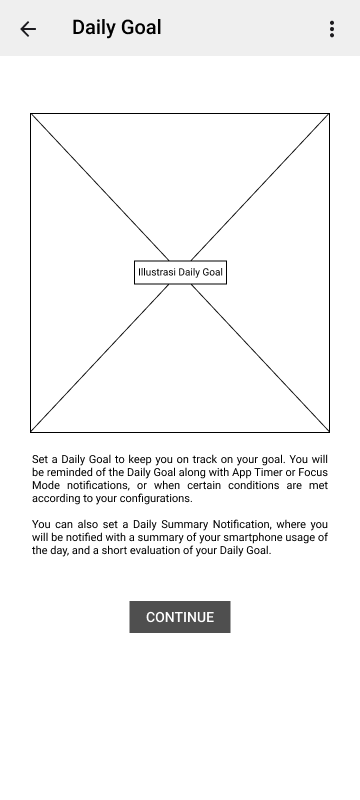
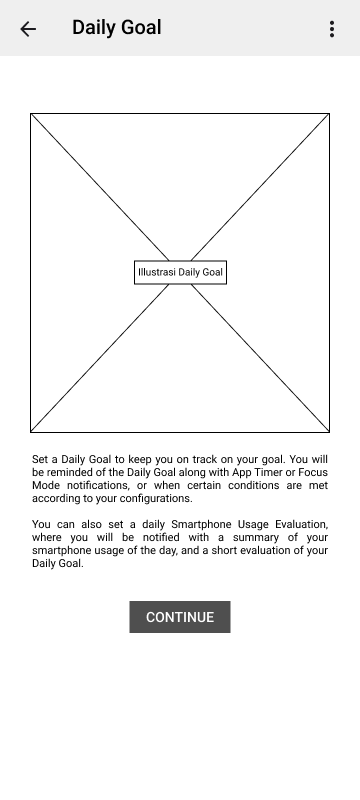
High fidelity prototype

Changed region(s): [[0.0917, 0.625, 0.9167, 0.7188]]

diff --git a/src/chapters/chapter-4.1.tex b/src/chapters/chapter-4.1.tex
@@ -89,49 +89,49 @@ Tampilan dari halaman serta widget yang telah disebutkan perlu memuat informasi 
 
 \RaggedLeft
 \begin{footnotesize}
-\begin{longtable}[c]{|>{\ccnormspacingcenter}p{0.1\textwidth}|>{\ccnormspacing}p{0.37\textwidth}|>{\ccnormspacingcenter}p{0.1\textwidth}|>{\ccnormspacingcenter}p{\lofiwidth}|}
+\begin{longtable}[c]{|>{\ccnormspacingcenter}p{0.12\textwidth}|>{\ccnormspacing}p{0.37\textwidth}|>{\ccnormspacingcenter}p{0.1\textwidth}|>{\ccnormspacingcenter}p{\lofiwidth}|}
   \caption{Daftar Tampilan Halaman Prototipe \textit{Low-Fidelity}}
   \label{tab:daftar_lofi_halaman} \\
   \hline \rowcolor[HTML]{A3E5F5}
-  \centering\textbf{ID Halaman} & \centering\textbf{Penjelasan Halaman} & \centering\textbf{Prinsip Desain} & \textbf{Prototipe \textit{Low-Fidelity}} \\ \hline \endfirsthead
+  \centering\textbf{Halaman} & \centering\textbf{Penjelasan Halaman} & \centering\textbf{Prinsip Desain} & \textbf{Prototipe \textit{Low-Fidelity}} \\ \hline \endfirsthead
   \hline \rowcolor[HTML]{A3E5F5}
-  \centering\textbf{ID Halaman} & \centering\textbf{Penjelasan Halaman} & \centering\textbf{Prinsip Desain} & \textbf{Prototipe \textit{Low-Fidelity}} \\ \hline \endhead
+  \centering\textbf{Halaman} & \centering\textbf{Penjelasan Halaman} & \centering\textbf{Prinsip Desain} & \textbf{Prototipe \textit{Low-Fidelity}} \\ \hline \endhead
   \hline \endfoot
 
-  H-01 & Halaman ini adalah tampilan utama dari aplikasi Digital Wellbeing yang memuat navigasi utama ke fitur-fitur seperti Dashboard, App Timer, Daily Goal, Focus Mode, dan Bedtime Mode. Navigasi menuju Dashboard diletakkan di paling atas beserta \textit{pie graph} yang menunjukkan aktivitas \textit{smartphone} pengguna di hari tersebut. Di bagian bawah juga terdapat navigasi menuju pengaturan notifikasi dan mode "Do Not Disturb" bawaan \textit{smartphone} & DP-01, DP-02, DP-04, DP-05, DP-08, DP-09 & \lofi{lofi/h-01} \\ \hline
+  \textbf{H-01} Halaman Main Menu & Halaman ini adalah tampilan utama dari aplikasi Digital Wellbeing yang memuat navigasi utama ke fitur-fitur seperti Dashboard, App Timer, Daily Goal, Focus Mode, dan Bedtime Mode. Navigasi menuju Dashboard diletakkan di paling atas beserta \textit{pie graph} yang menunjukkan aktivitas \textit{smartphone} pengguna di hari tersebut. Di bagian bawah juga terdapat navigasi menuju pengaturan notifikasi dan mode "Do Not Disturb" bawaan \textit{smartphone} & DP-01, DP-02, DP-04, DP-05, DP-08, DP-09 & \lofi{lofi/h-01} \\ \hline
 
-  H-02 & Halaman ini memuat seluruh data penggunaan \textit{smartphone}. Pada bagian paling atas, terdapat rekomendasi dari Digital Wellbeing tentang langkah-langkah yang dapat dilakukan pengguna untuk memperbaiki kebiasaan digitalnya, atau penanda jika kebiasaannya sudah cukup sehat. Bagian rekomendasi ini adalah salah satu aspek di mana tipe interaksi \textit{responding} difokuskan. Data penggunaan \textit{smartphone} yang ditampilkan dapat dipilih oleh menu, baik waktu penggunaan aplikasi, jumlah notifikasi, atau jumlah pembukaan aplikasi. Periode durasi data juga dapat dipilih dengan menu, baik secara per jam, harian, atau mingguan.
+  \textbf{H-02} Halaman Dashboard & Halaman ini memuat seluruh data penggunaan \textit{smartphone}. Pada bagian paling atas, terdapat rekomendasi dari Digital Wellbeing tentang langkah-langkah yang dapat dilakukan pengguna untuk memperbaiki kebiasaan digitalnya, atau penanda jika kebiasaannya sudah cukup sehat. Bagian rekomendasi ini adalah salah satu aspek di mana tipe interaksi \textit{responding} difokuskan. Data penggunaan \textit{smartphone} yang ditampilkan dapat dipilih oleh menu, baik waktu penggunaan aplikasi, jumlah notifikasi, atau jumlah pembukaan aplikasi. Periode durasi data juga dapat dipilih dengan menu, baik secara per jam, harian, atau mingguan.
   Selain itu terdapat daftar seluruh aplikasi pada \textit{smartphone} beserta data penggunaannya masing-masing. Pengguna dapat melihat data lebih detail atau langsung memasang App Timer. Pengguna juga dapat melihat data penggunaan dari kelompok aplikasi yang telah dibuat, atau membuatnya jika belum ada, terlihat tepat di atas daftar. Jika pengguna ingin mencari aplikasi spesifik, maka \textit{searchbar} bisa dimanfaatkan untuk mengetikkan nama aplikasi.
   & DP-01, DP-02, DP-03, DP-04, DP-05, DP-08, DP-09 & \lofi{lofi/h-02} \\ \hline
 
-  H-03 & Halaman ini berisi daftar App Timer yang telah dipasang oleh pengguna, waktu yang telah dilampaui selama menggunakan aplikasi tersebut, serta sisa waktu sebelum aplikasi ditutup aksesnya. Pengguna bisa mengubah pengaturan App Timer yang telah dipasang, atau menambah aplikasi yang ingin dipasangkan App Timer dengan mencarinya dari daftar aplikasi yang terletak di bawah. Di halaman ini pengguna juga bisa mengatur perilaku pemberian peringatan terhadap sisa waktu aplikasi-aplikasi. & DP-02, DP-03, DP-05, DP-08, DP-09 & \lofi{lofi/h-03} \\ \hline
+  \textbf{H-03} Halaman App Timer & Halaman ini berisi daftar App Timer yang telah dipasang oleh pengguna, waktu yang telah dilampaui selama menggunakan aplikasi tersebut, serta sisa waktu sebelum aplikasi ditutup aksesnya. Pengguna bisa mengubah pengaturan App Timer yang telah dipasang, atau menambah aplikasi atau App Group yang ingin dipasangkan App Timer dengan mencarinya dari daftar aplikasi yang terletak di bawah. Di halaman ini pengguna juga bisa mengatur perilaku pemberian peringatan terhadap sisa waktu aplikasi-aplikasi. & DP-02, DP-03, DP-05, DP-08, DP-09 & \lofi{lofi/h-03} \\ \hline
   
-  H-04 & Di halaman ini, pengguna dapat menentukan Daily Goal atau tujuan harian yang ingin ditempuh dan dibantu diingatkan oleh aplikasi Digital Wellbeing. Pengguna dapat mengatur perilaku pengiriman peringatannya. Pengguna juga dapat menyalakan fitur Smartphone Usage Evaluation di mana aplikasi akan mengirimkan sebuah notifikasi berisi jumlah waktu penggunaan \textit{smartphone} pada hari tersebut serta peringatan untuk mengevaluasi Daily Goal yang telah ditentukan. & DP-03, DP-05, DP-06, DP-08, DP-09 & \lofi{lofi/h-04} \\ \hline
+  \textbf{H-04} Halaman Daily Goal & Di halaman ini, pengguna dapat menentukan Daily Goal atau tujuan harian yang ingin ditempuh dan dibantu diingatkan oleh aplikasi Digital Wellbeing. Pengguna dapat mengatur perilaku pengiriman peringatannya. Pengguna juga dapat menyalakan fitur Smartphone Usage Evaluation di mana aplikasi akan mengirimkan sebuah notifikasi berisi jumlah waktu penggunaan \textit{smartphone} pada hari tersebut serta peringatan untuk mengevaluasi Daily Goal yang telah ditentukan. & DP-03, DP-05, DP-06, DP-08, DP-09 & \lofi{lofi/h-04} \\ \hline
   
-  H-05 & Halaman ini memuat status dari keberjalanan Focus Mode serta aksi-aksi yang dapat dilakukan untuk menunda, mematikan, atau mengaktivasinya. Selain itu, terdapat juga daftar jadwal Focus Mode yang ditentukan pengguna, atau pilihan untuk menambahkannya. Jadwal Focus Mode akan menavigasikan pengguna ke halaman pengaturan jadwal tersebut.  & DP-03, DP-05, DP-06, DP-08, DP-09 & \lofi{lofi/h-05} \\ \hline
+  \textbf{H-05} Halaman Focus Mode & Halaman ini memuat status dari keberjalanan Focus Mode serta aksi-aksi yang dapat dilakukan untuk menunda, mematikan, atau mengaktivasinya. Selain itu, terdapat juga daftar jadwal Focus Mode yang ditentukan pengguna, atau pilihan untuk menambahkannya. Jadwal Focus Mode akan menavigasikan pengguna ke halaman pengaturan jadwal tersebut.  & DP-03, DP-05, DP-06, DP-08, DP-09 & \lofi{lofi/h-05} \\ \hline
   
-  H-06 & Pada halaman ini, pengguna dapat mengatur jadwal aktivasi Bedtime Mode menurut mode perilaku aktivasi yang dipilihnya. Pengguna juga dapat mengatur kemampuan apa saja yang akan aktif jika Bedtime Mode berlangsung.  & DP-03, DP-04, DP-05, DP-08, DP-09 & \lofi{lofi/h-06-schedule} \\ \hline
+  \textbf{H-06} Halaman Bedtime Mode & Pada halaman ini, pengguna dapat mengatur jadwal aktivasi Bedtime Mode menurut mode perilaku aktivasi yang dipilihnya. Pengguna juga dapat mengatur kemampuan apa saja yang akan aktif jika Bedtime Mode berlangsung.  & DP-03, DP-04, DP-05, DP-08, DP-09 & \lofi{lofi/h-06-schedule} \\ \hline
   
-  H-07 & Halaman ini memuat data penggunaan sebuah aplikasi. Jenis data-data yang ditampilkan mirip seperti yang dapat ditemukan pada halaman Dashboard, namun hanya untuk satu buah aplikasi yang dipilih saja. Pemilihan periode waktu serta navigasi waktu data juga dapat dilakukan. Sebagai tambahan, terdapat navigasi ke halaman pengaturan App Timer untuk aplikasinya, serta navigasi menuju halaman pengaturan notifikasi aplikasi bawaan \textit{smartphone} & DP-05, DP-08, DP-09 & \lofi{lofi/h-07} \\ \hline
+  \textbf{H-07} Halaman Ringkasan Penggunaan Aplikasi & Halaman ini memuat data penggunaan sebuah aplikasi. Jenis data-data yang ditampilkan mirip seperti yang dapat ditemukan pada halaman Dashboard, namun hanya untuk satu buah aplikasi yang dipilih saja. Pemilihan periode waktu serta navigasi waktu data juga dapat dilakukan. Sebagai tambahan, terdapat navigasi ke halaman pengaturan App Timer untuk aplikasinya, serta navigasi menuju halaman pengaturan notifikasi aplikasi bawaan \textit{smartphone}. Tampilan data penggunaan aplikasi sengaja dibuat serupa dengan tampilan pengguna \textit{smartphone} agar pengguna dapat dengan mudah menggunakannya tanpa perlu mempelajari ulang. & DP-05, DP-08, DP-09 & \lofi{lofi/h-07} \\ \hline
   
-  H-08 & Halaman ini memuat data penggunaan dari App Group atau kelompok aplikasi yang ditentukan oleh pengguna. Jenis data-data yang ditampilkan mirip seperti yang dapat ditemukan pada halaman Dashboard, namun hanya untuk gabungan dari beberapa aplikasi yang ditentukan. Pemilihan periode waktu serta navigasi waktu data juga dapat dilakukan. Di bagian bawah, terdapat daftar aplikasi yang termasuk ke dalam App Group, yang dapat dinavigasi ke halaman data penggunaan aplikasinya masing-masing, atau halaman pengaturan App Timer aplikasinya. Sebagai tambahan, terdapat juga navigasi ke halaman App Timer untuk App Group tersebut, di mana dapat diatur App Timer untuk keseluruhan aplikasi secara kolektif. Terdapat juga navigasi ke halaman pengaturan App Group jika pengguna ingin melakukan perubahan terhadap App Groupnya. & DP-05, DP-08, DP-09 & \lofi{lofi/h-08} \\ \hline
+  \textbf{H-08} Halaman Ringkasan Penggunaan App Group & Halaman ini memuat data penggunaan dari App Group atau kelompok aplikasi yang ditentukan oleh pengguna. Jenis data-data yang ditampilkan mirip seperti yang dapat ditemukan pada halaman Dashboard, namun hanya untuk gabungan dari beberapa aplikasi yang ditentukan. Pemilihan periode waktu serta navigasi waktu data juga dapat dilakukan. Di bagian bawah, terdapat daftar aplikasi yang termasuk ke dalam App Group, yang dapat dinavigasi ke halaman data penggunaan aplikasinya masing-masing, atau halaman pengaturan App Timer aplikasinya. Sebagai tambahan, terdapat juga navigasi ke halaman App Timer untuk App Group tersebut, di mana dapat diatur App Timer untuk keseluruhan aplikasi secara kolektif. Terdapat juga navigasi ke halaman pengaturan App Group jika pengguna ingin melakukan perubahan terhadap App Groupnya. & DP-05, DP-08, DP-09 & \lofi{lofi/h-08} \\ \hline
   
-  H-09 & Pada halaman ini dapat dilakukan pengaturan terhadap App Group yang dibuat oleh pengguna. Pengaturan App Group termasuk nama App Group serta aplikasi-aplikasi yang dipilih. Pengguna dapat memanfaatkan \textit{searchbar} jika ingin mencari aplikasi yang spesifik.  & DP-05, DP-08, DP-09 & \lofi{lofi/h-09} \\ \hline
+  \textbf{H-09} Halaman Pengaturan App Group & Pada halaman ini dapat dilakukan pengaturan terhadap App Group yang dibuat oleh pengguna. Pengaturan App Group termasuk nama App Group serta aplikasi-aplikasi yang dipilih. Pengguna dapat memanfaatkan \textit{searchbar} jika ingin mencari aplikasi yang spesifik.  & DP-05, DP-08, DP-09 & \lofi{lofi/h-09} \\ \hline
   
-  H-10 & Pada halaman ini dapat dilakukan pengaturan terhadap App Timer aplikasi yang dibuat oleh pengguna. Pengguna dapat mengatur App Timer agar memiliki batas waktu yang sama setiap hari, atau batas waktu yang berbeda-beda per harinya sesuai kebutuhan pengguna. Pengguna juga dapat menghapus App Timer lewat halaman ini. Di bagian atas juga terdapat visualisasi waktu penggunaan aplikasi dan sisa batas waktunya untuk hari tersebut.  & DP-01, DP-02, DP-03, DP-05, DP-08, DP-09 & \lofi{lofi/h-10-custom} \\ \hline
+  \textbf{H-10} Halaman Pengaturan Jadwal App Timer & Pada halaman ini dapat dilakukan pengaturan terhadap App Timer aplikasi yang dibuat oleh pengguna. Pengguna dapat mengatur App Timer agar memiliki batas waktu yang sama setiap hari, atau batas waktu yang berbeda-beda per harinya sesuai kebutuhan pengguna. Pengguna juga dapat menghapus App Timer lewat halaman ini. Di bagian atas juga terdapat visualisasi waktu penggunaan aplikasi dan sisa batas waktunya untuk hari tersebut.  & DP-01, DP-02, DP-03, DP-05, DP-08, DP-09 & \lofi{lofi/h-10-custom} \\ \hline
   
-  H-11 & Pada halaman ini, pengguna dapat mengatur hari dan waktu aktivasi dari jadwal Focus Mode yang dibuat pengguna. Pengguna juga dapat mengatur nama dari jadwal, dan aplikasi apa saja yang akan diblokir aksesnya selama jadwal Focus Mode berlangsung. Jika pengguna ingin mencari aplikasi spesifik, maka \textit{searchbar} dapat dimanfaatkan dengan mengetikkan nama aplikasinya.  & DP-03, DP-05, DP-08, DP-09 & \lofi{lofi/h-11} \\ \hline
+  \textbf{H-11} Halaman Pengaturan Jadwal Focus Mode & Pada halaman ini, pengguna dapat mengatur hari dan waktu aktivasi dari jadwal Focus Mode yang dibuat pengguna. Pengguna juga dapat mengatur nama dari jadwal, dan aplikasi apa saja yang akan diblokir aksesnya selama jadwal Focus Mode berlangsung. Jika pengguna ingin mencari aplikasi spesifik, maka \textit{searchbar} dapat dimanfaatkan dengan mengetikkan nama aplikasinya.  & DP-03, DP-05, DP-08, DP-09 & \lofi{lofi/h-11} \\ \hline
   
   
-  H-12 & Halaman ini memuat ilustrasi tujuan dari Dashboard dan penjelasan tentang fitur-fitur yang terdapat pada Dashboard. Halaman ini bertujuan agar pengguna memiliki gambaran umum tentang apa yang dapat dicapai dari menggunakan Dashboard & DP-05, DP-09 & \lofi{lofi/h-12} \\ \hline
+  \textbf{H-12} Halaman Pengenalan Dashboard & Halaman ini memuat ilustrasi tujuan dari Dashboard dan penjelasan tentang fitur-fitur yang terdapat pada Dashboard. Halaman ini bertujuan agar pengguna memiliki gambaran umum tentang apa yang dapat dicapai dari menggunakan Dashboard & DP-05, DP-09 & \lofi{lofi/h-12} \\ \hline
   
-  H-13 & Halaman ini memuat ilustrasi tujuan dari App Timer dan penjelasan tentang fitur-fitur yang terdapat pada App Timer. Halaman ini bertujuan agar pengguna memiliki gambaran umum tentang apa yang dapat dicapai dari menggunakan App Timer & DP-05, DP-09 & \lofi{lofi/h-13} \\ \hline
+  \textbf{H-13} Halaman Pengenalan App Timer & Halaman ini memuat ilustrasi tujuan dari App Timer dan penjelasan tentang fitur-fitur yang terdapat pada App Timer. Halaman ini bertujuan agar pengguna memiliki gambaran umum tentang apa yang dapat dicapai dari menggunakan App Timer & DP-05, DP-09 & \lofi{lofi/h-13} \\ \hline
   
-  H-14 & Halaman ini memuat ilustrasi tujuan dari Daily Goal dan penjelasan tentang fitur-fitur yang terdapat pada Daily Goal. Halaman ini bertujuan agar pengguna memiliki gambaran umum tentang apa yang dapat dicapai dari menggunakan Daily Goal & DP-05, DP-09 & \lofi{lofi/h-14} \\ \hline
+  \textbf{H-14} Halaman Pengenalan Goal Reminder & Halaman ini memuat ilustrasi tujuan dari Daily Goal dan penjelasan tentang fitur-fitur yang terdapat pada Daily Goal. Halaman ini bertujuan agar pengguna memiliki gambaran umum tentang apa yang dapat dicapai dari menggunakan Daily Goal & DP-05, DP-09 & \lofi{lofi/h-14} \\ \hline
   
-  H-15 & Halaman ini memuat ilustrasi tujuan dari Focus Mode dan penjelasan tentang fitur-fitur yang terdapat pada Focus Mode. Halaman ini bertujuan agar pengguna memiliki gambaran umum tentang apa yang dapat dicapai dari menggunakan Focus Mode & DP-05, DP-09 & \lofi{lofi/h-15} \\ \hline
+  \textbf{H-15} Halaman Pengenalan Focus Mode & Halaman ini memuat ilustrasi tujuan dari Focus Mode dan penjelasan tentang fitur-fitur yang terdapat pada Focus Mode. Halaman ini bertujuan agar pengguna memiliki gambaran umum tentang apa yang dapat dicapai dari menggunakan Focus Mode & DP-05, DP-09 & \lofi{lofi/h-15} \\ \hline
   
-  H-16 & Halaman ini memuat ilustrasi tujuan dari Bedtime Mode dan penjelasan tentang fitur-fitur yang terdapat pada Bedtime Mode. Halaman ini bertujuan agar pengguna memiliki gambaran umum tentang apa yang dapat dicapai dari menggunakan Bedtime Mode & DP-05, DP-09 & \lofi{lofi/h-16} \\ \hline
+  \textbf{H-16} Halaman Pengenalan Bedtime Mode & Halaman ini memuat ilustrasi tujuan dari Bedtime Mode dan penjelasan tentang fitur-fitur yang terdapat pada Bedtime Mode. Halaman ini bertujuan agar pengguna memiliki gambaran umum tentang apa yang dapat dicapai dari menggunakan Bedtime Mode & DP-05, DP-09 & \lofi{lofi/h-16} \\ \hline
 
 
 \end{longtable}
@@ -145,16 +145,16 @@ Tampilan dari halaman serta widget yang telah disebutkan perlu memuat informasi 
   \caption{Daftar Tampilan Widget Prototipe \textit{Low-Fidelity}}
   \label{tab:daftar_lofi_widget} \\
   \hline \rowcolor[HTML]{A3E5F5}
-  \centering\textbf{ID Widget} & \centering\textbf{Penjelasan Widget} & \centering\textbf{Prinsip Desain} & \textbf{Prototipe \textit{Low-Fidelity}} \\ \hline \endfirsthead
+  \centering\textbf{Widget} & \centering\textbf{Penjelasan Widget} & \centering\textbf{Prinsip Desain} & \textbf{Prototipe \textit{Low-Fidelity}} \\ \hline \endfirsthead
   \hline \rowcolor[HTML]{A3E5F5}
-  \centering\textbf{ID Widget} & \centering\textbf{Penjelasan Widget} & \centering\textbf{Prinsip Desain} & \textbf{Prototipe \textit{Low-Fidelity}} \\ \hline \endhead
+  \centering\textbf{Widget} & \centering\textbf{Penjelasan Widget} & \centering\textbf{Prinsip Desain} & \textbf{Prototipe \textit{Low-Fidelity}} \\ \hline \endhead
   \hline \endfoot
 
-  W-01 & Widget ini memuat data penggunaan \textit{smartphone}, serta 3 aplikasi dengan penggunaan tertinggi pada hari tersebut. Pengguna dapat melakukan navigasi langsung ke halaman Dashboard melalui widget ini. & DP-02, DP-05, DP-09 & \lofiwidget{0.2\textwidth}{lofi/w-01} \\ \hline
+  \textbf{W-01} Widget Dashboard & Widget ini memuat data penggunaan \textit{smartphone}, serta 3 aplikasi dengan penggunaan tertinggi pada hari tersebut. Pengguna dapat melakukan navigasi langsung ke halaman Dashboard melalui widget ini. & DP-02, DP-05, DP-09 & \lofiwidget{0.2\textwidth}{lofi/w-01} \\ \hline
 
-  W-02 & Widget ini memuat daftar aplikasi yang telah dipasang App Timer, serta sisa waktu untuk menggunakan aplikasi sebelum aksesnya ditutup. Pengguna dapat melakukan navigasi langsung ke halaman App Timer, atau menambah App Timer untuk aplikasi lain melalui widget ini. & DP-02, DP-05, DP-09 & \lofiwidget{0.25\textwidth}{lofi/w-02} \\ \hline
+  \textbf{W-02} Widget App Timer & Widget ini memuat daftar aplikasi yang telah dipasang App Timer, serta sisa waktu untuk menggunakan aplikasi sebelum aksesnya ditutup. Pengguna dapat melakukan navigasi langsung ke halaman App Timer, atau menambah App Timer untuk aplikasi lain melalui widget ini. & DP-02, DP-05, DP-09 & \lofiwidget{0.3\textwidth}{lofi/w-02} \\ \hline
  
-  W-03 & Widget ini menampilkan status keberlangsungan dari Focus Mode. Pengguna dapat mengaktivasi Focus Mode langsung dari widget jika sedang tidak aktif, serta mengambil istirahat dan mematikan Focus Mode jika sedang aktif. Pengguna juga dapat melakukan navigasi langsung ke halaman Focus Mode langsung dari widget. & DP-03, DP-04, DP-05, DP-09 & \lofiwidget{0.25\textwidth}{lofi/w-03} \\ \hline
+  \textbf{W-03} Widget Focus Mode & Widget ini menampilkan status keberlangsungan dari Focus Mode. Pengguna dapat mengaktivasi Focus Mode langsung dari widget jika sedang tidak aktif, serta mengambil istirahat dan mematikan Focus Mode jika sedang aktif. Pengguna juga dapat melakukan navigasi langsung ke halaman Focus Mode langsung dari widget. & DP-03, DP-04, DP-05, DP-09 & \lofiwidget{0.3\textwidth}{lofi/w-03} \\ \hline
 
 \end{longtable}
 \end{footnotesize}

diff --git a/src/chapters/chapter-4.3.tex b/src/chapters/chapter-4.3.tex
@@ -12,7 +12,16 @@ Secara umum, aspek-aspek antarmuka yang digunakan pada prototipe \textit{high-fi
 
 \subsubsection{Warna}
 \label{subsubsec:aspek_warna}
-Warna yang digunakan dalam prototipe terbagi menjadi 3 kategori, yaitu warna primer, warna sekunder, dan warna tersier
+Warna yang digunakan dalam prototipe terbagi menjadi 3 kategori, yaitu warna primer, warna sekunder, dan warna aksen. Warna primer aplikasi menggunakan warna hijau, dengan alasan karena warna ini merupakan warna primer pada aplikasi Digital Wellbeing pada awalnya. Warna sekunder aplikasi adalah variasi atau gradasi warna monokrom hitam-putih. Selain itu, ada juga warna aksen yaitu warna kuning dan warna biru, yang juga sudah terdapat pada aplikasi Digital Wellbeing pada awalnya. Palet warna yang digunakan di aplikasi dapat dilihat pada Gambar \ref{img:pallete}.
+
+
+\begin{figure}[h]
+  \centering
+  \includegraphics[width=0.7\textwidth]{chapter-4-color.png}
+  \caption{Palet Warna Prototipe Aplikasi}
+  \label{img:pallete}
+\end{figure}
+\FloatBarrier
 
 \subsubsection{Tipografi}
 \label{subsubsec:aspek_tipografi}
@@ -24,15 +33,92 @@ Warna yang digunakan dalam prototipe terbagi menjadi 3 kategori, yaitu warna pri
   \caption{\textit{Typeface} Roboto}
   \label{img:typeface}
 \end{figure}
+\FloatBarrier
 
-\subsubsection{\textit{Icon}}
-\label{subsubsec:aspek_icon}
-Icon
+\subsubsection{Ikon}
+\label{subsubsec:aspek_ikon}
+Ikon adalah simbol grafis yang dapat merepresentasikan sebuah fungsi atau objek pada antarmuka aplikasi. Penggunaan ikon yang sering ditemukan di tampilan aplikasi lain juga dapat memberikan rasa familiaritas, mempermudah fungsi-fungsi untuk dipelajari. Ikon-ikon yang digunakan pada prototipe \textit{high-fidelity} akan diambil dari ikon-ikon Material Design. Warna ikon akan mengikuti konteks dari antarmuka di sekelilingnya atau kondisi penggunaan tertentu, yaitu bisa menggunakan warna primer, sekunder, atau aksen. Ikon-ikon yang digunakan pada prototipe dapat ditemukan pada Gambar \ref{img:icons}
+
+\begin{figure}[h]
+  \centering
+  \includegraphics[width=0.5\textwidth]{chapter-4-icons.png}
+  \caption{Ikon yang digunakan}
+  \label{img:icons}
+\end{figure}
+\FloatBarrier
  
 \subsubsection{Komponen Desain}
 \label{subsubsec:komponen_hifi_1}
 
-Komponen desain
+Berikut ini disebutkan beberapa komponen desain yang sering digunakan pada prototipe \textit{high-fidelity} Digital Wellbeing
+
+\begin{enumerate}
+  \item \textit{Button}
+  \subitem Terdapat 3 jenis utama tombol pada prototipe, \textit{filled button}, \textit{border button}, dan \textit{text button}. Adapun variasi terhadap ukuran dan bentuk dari tombol yang diturunkan ketiga jenis utama. Tombol-tombol ini berperan penting dalam melakukan aksi dan menetapkan pengaturan. Beberapa tampilan memiliki deretan tombol-tombol jika terdapat lebih dari 1 aksi yang dapat dilakukan, maka dari itu desain yang berbeda dari tombol cukup penting untuk menegaskan hierarki kepentingan dari setiap aksi.
+    \begin{figure}[h]
+      \centering
+      \includegraphics[width=0.45\textwidth]{chapter-4-buttons.png}
+      \caption{Komponen \textit{button}}
+      \label{img:button}
+    \end{figure}
+    \FloatBarrier
+  
+  \item Dialog
+  \subitem Dialog adalah sebuah jendela kecil melayang yang digunakan untuk menampilkan secuplik informasi, meminta aksi dari pengguna, atau memuat pengaturan suatu fitur. Dialog sering dimanfaatkan pada prototipe untuk memuat pengaturan yang lebih kompleks atau informasi lebih di saat layar sudah cukup terpenuhi, berguna agar membebankan pengguna dengan tampilan yang terlalu rumit.
+
+  \begin{figure}[h]
+    \centering
+    \includegraphics[width=0.4\textwidth]{chapter-4-dialog.png}
+    \caption{Komponen dialog}
+    \label{img:dialog}
+  \end{figure}
+  \FloatBarrier
+
+  \item \textit{Time Picker}
+  \subitem \textit{Time Picker} adalah sebuah variasi dari dialog yang berguna untuk memilih waktu. \textit{Time Picker} sering dimanfaatkan dalam prototipe, seperti untuk mengatur jadwal aktivasi Focus Mode atau App Timer.
+  
+  \begin{figure}[h]
+    \centering
+    \includegraphics[width=0.35\textwidth]{chapter-4-timepicker.png}
+    \caption{Komponen \textit{time picker}}
+    \label{img:timepicker}
+  \end{figure}
+  \FloatBarrier
+
+  \item \textit{Search bar}
+  \subitem \textit{Search bar} adalah sebuah komponen untuk mencari sebuah benda dari dalam daftar. \textit{Search bar} sering dimanfaatkan pada prototipe karena banyaknya tampilan yang memuat daftar aplikasi, sehingga dibutuhkan untuk mempermudah pencarian aplikasi oleh pengguna.
+ 
+  \begin{figure}[h]
+    \centering
+    \includegraphics[width=0.6\textwidth]{chapter-4-seachbar.png}
+    \caption{Komponen \textit{search bar}}
+    \label{img:searchbar}
+  \end{figure}
+  \FloatBarrier
+
+  \item \textit{Bar chart}
+  \subitem \textit{Bar chart} atau diagram batang adalah sebuah grafik yang terusun dari kolom-kolom berbentuk batang. \textit{Bar chart} digunakan dalam prototipe untuk menyampaikan informasi tentang data penggunaan \textit{smartphone} atau aplikasi.
+ 
+  \begin{figure}[h]
+    \centering
+    \includegraphics[width=0.5\textwidth]{chapter-4-barchart.png}
+    \caption{Komponen \textit{bar chart}}
+    \label{img:searchbar}
+  \end{figure}
+  \FloatBarrier
+
+  \item \textit{Dropdown}
+  \subitem \textit{Dropdown} adalah sebuah komponen desain yang berguna untuk mengelompokkan dan menyembunyikan objek-objek dengan atribut yang serupa. Komponen \textit{dropdown} dimanfaatkan pada prototipe untuk mengumpulkan pengaturan yang mirip pada suatu halaman, dan berguna untuk mengurangi beban visual dari tammpilan layar. Komponen \textit{dropdown} juga sudah digunakan pada aplikasi Digital Wellbeing pada awalnya.
+ 
+  \begin{figure}[h]
+    \centering
+    \includegraphics[width=0.6\textwidth]{chapter-4-dropdown.png}
+    \caption{Komponen \textit{dropdown}}
+    \label{img:dropdown}
+  \end{figure}
+  \FloatBarrier
+
+\end{enumerate}
 
 
 \subsection{Batasan Pengembangan}
@@ -52,5 +138,82 @@ Pengembangan prototipe \textit{high-fidelity} ini memiliki beberapa batasan agar
 
 \subsection{Implementasi Prototipe \textit{High-Fidelity}}
 
-Implementasi Prototipe \textit{High-Fidelity}
+Berdasarkan rencana perbaikan pada Tabel \ref{tab:daftar_perbaikan_lofi}, analisis aspek antarmuka, dan batasan pengembangan, maka tampilan-tampilan prototipe \textit{low-fidelity} pada Tabel \ref{tab:daftar_lofi_halaman} dan Tabel \ref{tab:daftar_lofi_widget} akan dikembangkan dan diimplementasi menjadi prototipe \textit{high-fidelity}. Tabel \ref{tab:daftar_hifi_halaman} memuat implementasi tampilan halaman prototipe \textit{high-fidelity}, sedangkan Tabel \ref{tab:daftar_hifi_widget} memuat implementasi tampilan untuk widget. Pada kedua tabel tersebut dimuat juga pemetaan prinsip desain tambahan terhadap prototipe \textit{high-fidelity}, serta penjelasan singkat tentang tampilan dan perubahannya dari tampilan prototipe \textit{low-fidelity}.
+
+
+\newlength{\hifiwidth}
+\setlength{\hifiwidth}{0.325\textwidth}
+
+\newcommand{\hifi}[1]{\begin{center}\includegraphics[width=\hifiwidth]{#1}\end{center}}
+\newcommand{\hifiwidget}[2]{\begin{center}\includegraphics[width=#1]{#2}\end{center}}
+
+\RaggedLeft
+\begin{footnotesize}
+\begin{longtable}[c]{|>{\ccnormspacingcenter}p{0.12\textwidth}|>{\ccnormspacing}p{0.33\textwidth}|>{\ccnormspacingcenter}p{0.12\textwidth}|>{\ccnormspacingcenter}p{\hifiwidth}|}
+  \caption{Daftar Tampilan Halaman Prototipe \textit{High-Fidelity}}
+  \label{tab:daftar_hifi_halaman} \\
+  \hline \rowcolor[HTML]{A3E5F5}
+  \centering\textbf{Halaman} & \centering\textbf{Penjelasan Halaman} & \centering\textbf{Prinsip Desain Tambahan} & \textbf{Prototipe \textit{High-Fidelity}} \\ \hline \endfirsthead
+  \hline \rowcolor[HTML]{A3E5F5}
+  \centering\textbf{Halaman} & \centering\textbf{Penjelasan Halaman} & \centering\textbf{Prinsip Desain Tambahan} & \textbf{Prototipe \textit{High-Fidelity}} \\ \hline \endhead
+  \hline \endfoot
+
+  \textbf{H-01} Halaman Main Menu & Halaman ini adalah tampilan utama dari aplikasi Digital Wellbeing yang memuat navigasi utama ke fitur-fitur lainnya. Pada prototipe \textit{high-fidelity} terdapat perubahan pada bentuk menu navigasi menjadi lebih bundar agar lebih \textit{user-friendly}. Adapun implementasi ilustrasi untuk menu Focus Mode dan Bedtime Mode, dan ikon-ikon pada menu lainnya, menggantikan \textit{placeholder} pada tampilan \textit{low-fidelity}. & - & \hifi{hifi/h-01} \\ \hline
+  
+  \textbf{H-02} Halaman Dashboard & Halaman ini memuat seluruh data penggunaan \textit{smartphone}. Pada prototipe \textit{high-fidelity} terdapat penambahan warna untuk \textit{bar chart} agar memperjelas data yang sedang dipilih. Adapun pengubahan desain dari tombol penambahan App Group untuk memberikan perbedaan yang jelas dengan tombol navigasi ke halaman data penggunaan App Group & - & \hifi{hifi/h-02} \\ \hline
+  
+  \textbf{H-03} Halaman App Timer & Halaman ini berisi daftar App Timer yang telah dipasang oleh pengguna, dan daftar aplikasi lain. Pada prototipe \textit{high-fidelity}, menu konfigurasi pengingat App Timer disembunyikan di dalam komponen \textit{dropdown} untuk mengurangi kompleksitas visual. Selain itu, ada juga penambahan bagian yang memuat daftar App Group yang sudah dibuat, memindahkan lokasi App Group dari dalam daftar aplikasi. & - & \hifi{hifi/h-03} \\ \hline
+  
+  \textbf{H-04} Halaman Daily Goal & Di halaman ini, pengguna dapat menentukan Daily Goal atau tujuan harian yang ingin ditempuh dan dibantu diingatkan oleh aplikasi Digital Wellbeing. Pada prototipe \textit{high-fidelity} terdapat penambahan penjelasan untuk fitur-fitur pengingat Daily Goal agar lebih mudah untuk dimengerti. Adapun penambahan ikon untuk fitur Daily Goal agar tampilan tidak terasa kaku & - & \hifi{hifi/h-04} \\ \hline
+  
+  \textbf{H-05} Halaman Focus Mode & Halaman ini memuat status dari keberjalanan Focus Mode serta aksi-aksi yang dapat dilakukan untuk menunda, mematikan, atau mengaktivasinya. Pada prototipe \textit{high-fidelity} terdapat penambahan daftar aplikasi untuk memilih aplikasi yang dinilai mendistraksi, daftar ini dapat dimanfaatkan jika pengguna ingin menyalakan fitur Focus Mode tanpa mengikuti jadwal. Adapun pemindahan lokasi navigasi ke halaman penambahan jadwal Focus Mode agar lebih mudah diakses jika terdapat banyak jadwal Focus Mode. & - & \hifi{hifi/h-05} \\ \hline
+  
+  \textbf{H-06} Halaman Bedtime Mode &  Pada halaman ini, pengguna dapat mengatur jadwal aktivasi Bedtime Mode menurut mode perilaku aktivasi yang dipilihnya. Pada prototipe \textit{high-fidelity} terdapat penambahan penjelasan singkat tentang mode aktivasi While Charging, sesuai dengan rencana perbaikan terhadap masalah yang dilaporkan. Adapun penambahan warna aksen terhadap pengaturan jadwal, warna aksen ini sudah menjadi bagian dari aplikasi Digital Wellbeing pada awalnya. Selain itu, menu konfigurasi kemampuan yang aktif saat Bedtime Mode disembunyikan di dalam komponen \textit{dropdown} untuk mengurangi kompleksitas visual. & - & \hifi{hifi/h-06-schedule} \\ \hline
+  
+  \textbf{H-07} Halaman Ringkasan Penggunaan Aplikasi & Halaman ini memuat data penggunaan sebuah aplikasi. Pada prototipe \textit{high-fidelity}, terdapat penambahan ikon pada navigasi App Timer dan pengaturan notifikasi agar tampilan lebih mudah dikenali. & - & \hifi{hifi/h-07} \\ \hline
+  
+  \textbf{H-08} Halaman Ringkasan Penggunaan App Group & Halaman ini memuat data penggunaan dari App Group atau kelompok aplikasi yang ditentukan oleh pengguna. Pada prototipe \textit{high-fidelity}, terdapat penambahan ikon pada navigasi App Timer dan pengaturan App Group agar tampilan lebih mudah dikenali. & - & \hifi{hifi/h-08} \\ \hline
+  
+  \textbf{H-09} Halaman Pengaturan App Group & Pada halaman ini dapat dilakukan pengaturan terhadap App Group yang dibuat oleh pengguna. Pada prototipe \textit{high-fidelity}, tidak ada perubahan yang cukup signifikan selain pengaplikasian warna. & - & \hifi{hifi/h-09} \\ \hline
+  
+  \textbf{H-10} Halaman Pengaturan Jadwal App Timer & Pada halaman ini dapat dilakukan pengaturan terhadap App Timer aplikasi yang dibuat oleh pengguna. Pada prototipe \textit{high-fidelity} terdapat perubahan tampilan untuk pengaturan App Timer, dengan memberikan elemen untuk mengkonfirmasi pengaturan sesuai dengan rancangan perbaikan dari prototipe \textit{low-fidelity}. Adapun jika belum ada opsi mode aktivasi App Timer, maka tombol konfirmasi pengaturan akan dinonaktifkan. & DP-07 & \hifi{hifi/h-10-daily} \hifi{hifi/h-10-off} \\ \hline
+  
+  \textbf{H-11} Halaman Pengaturan Jadwal Focus Mode & Pada halaman ini, pengguna dapat mengatur hari dan waktu aktivasi dari jadwal Focus Mode yang dibuat pengguna. Pada prototipe \textit{high-fidelity} terdapat penambahan bagian yang memuat daftar App Group yang sudah dibuat, memindahkan lokasi App Group dari dalam daftar aplikasi, agar pengguna lebih mudah dalam memilih sekelompok aplikasi sekaligus. & - & \hifi{hifi/h-11} \\ \hline
+  
+  \textbf{H-12} Halaman Pengenalan Dashboard & Halaman ini memuat ilustrasi tujuan dari Dashboard dan penjelasan tentang fitur-fitur yang terdapat pada Dashboard. Pada prototipe \textit{high-fidelity} dilakukan perubahan ukuran \textit{font} dari deskripsi agar lebih mudah dibaca. Adapun penambahan ilustrasi agar fitur-fitur yang dijelaskan lebih mudah untuk dipelajari. & - & \hifi{hifi/h-12} \\ \hline
+  
+  \textbf{H-13} Halaman Pengenalan App Timer & Halaman ini memuat ilustrasi tujuan dari App Timer dan penjelasan tentang fitur-fitur yang terdapat pada App Timer. Pada prototipe \textit{high-fidelity} dilakukan perubahan ukuran \textit{font} dari deskripsi agar lebih mudah dibaca. Adapun penambahan ilustrasi agar fitur-fitur yang dijelaskan lebih mudah untuk dipelajari. & - & \hifi{hifi/h-13} \\ \hline
+  
+  \textbf{H-14} Halaman Pengenalan Goal Reminder & Halaman ini memuat ilustrasi tujuan dari Goal Reminder dan penjelasan tentang fitur-fitur yang terdapat pada Goal Reminder. Pada prototipe \textit{high-fidelity} dilakukan perubahan ukuran \textit{font} dari deskripsi agar lebih mudah dibaca. Adapun penambahan ilustrasi agar fitur-fitur yang dijelaskan lebih mudah untuk dipelajari. & - & \hifi{hifi/h-14} \\ \hline
+  
+  \textbf{H-15} Halaman Pengenalan Focus Mode & Halaman ini memuat ilustrasi tujuan dari Focus Mode dan penjelasan tentang fitur-fitur yang terdapat pada Focus Mode. Pada prototipe \textit{high-fidelity} dilakukan perubahan ukuran \textit{font} dari deskripsi agar lebih mudah dibaca. Adapun penambahan ilustrasi agar fitur-fitur yang dijelaskan lebih mudah untuk dipelajari. & - & \hifi{hifi/h-15} \\ \hline
+  
+  \textbf{H-16} Halaman Pengenalan Bedtime Mode & Halaman ini memuat ilustrasi tujuan dari Bedtime Mode dan penjelasan tentang fitur-fitur yang terdapat pada Bedtime Mode. Pada prototipe \textit{high-fidelity} dilakukan perubahan ukuran \textit{font} dari deskripsi agar lebih mudah dibaca. Adapun penambahan ilustrasi agar fitur-fitur yang dijelaskan lebih mudah untuk dipelajari. & - & \hifi{hifi/h-16} \\ \hline
+
+\end{longtable}
+\end{footnotesize}
+\justifying
+\FloatBarrier
+
+\RaggedLeft
+\begin{footnotesize}
+\begin{longtable}[c]{|>{\ccnormspacingcenter}p{0.08\textwidth}|>{\ccnormspacing}p{0.37\textwidth}|>{\ccnormspacingcenter}p{0.1\textwidth}|>{\ccnormspacingcenter}p{\lofiwidth}|}
+  \caption{Daftar Tampilan Widget Prototipe \textit{High-Fidelity}}
+  \label{tab:daftar_hifi_widget} \\
+  \hline \rowcolor[HTML]{A3E5F5}
+  \centering\textbf{ID Widget} & \centering\textbf{Penjelasan Widget} & \centering\textbf{Prinsip Desain} & \textbf{Prototipe \textit{Low-Fidelity}} \\ \hline \endfirsthead
+  \hline \rowcolor[HTML]{A3E5F5}
+  \centering\textbf{ID Widget} & \centering\textbf{Penjelasan Widget} & \centering\textbf{Prinsip Desain} & \textbf{Prototipe \textit{Low-Fidelity}} \\ \hline \endhead
+  \hline \endfoot
+  
+  \textbf{W-01} Widget Dashboard & Widget ini memuat data penggunaan \textit{smartphone}, serta 3 aplikasi dengan penggunaan tertinggi pada hari tersebut. Desain widget pada prototipe \textit{high-fidelity} dibuat menjadi lebih \textit{user-friendly} agar widget dapat lebih berbaur dengan tampilan pada Homescreen.  & - & \hifiwidget{0.2\textwidth}{hifi/w-01} \\ \hline
+
+  \textbf{W-02} Widget App Timer & Widget ini memuat daftar aplikasi yang telah dipasang App Timer, serta sisa waktu untuk menggunakan aplikasi sebelum aksesnya ditutup. Desain widget pada prototipe \textit{high-fidelity} dibuat menjadi lebih \textit{user-friendly} agar widget dapat lebih berbaur dengan tampilan pada Homescreen.  & - & \hifiwidget{0.325\textwidth}{hifi/w-02} \\ \hline
+  
+  \textbf{W-03} Widget Focus Mode & Widget ini menampilkan status keberlangsungan dari Focus Mode. Desain widget pada prototipe \textit{high-fidelity} dibuat menjadi lebih \textit{user-friendly} agar widget dapat lebih berbaur dengan tampilan pada Homescreen. Ada juga penambahan interaksi pada widget agar pengguna dapat memanfaatkan lebih banyak fungsionalitas dari Focus Mode. & - & \hifiwidget{0.325\textwidth}{hifi/w-03} \\ \hline
+
+\end{longtable}
+\end{footnotesize}
+\justifying
+\FloatBarrier
 

diff --git a/src/chapters/chapter-3.3.tex b/src/chapters/chapter-3.3.tex
@@ -76,7 +76,7 @@ Sebelum fitur-fitur diimplementasi ke dalam prototipe aplikasi, perlu ditentukan
   \rowcolor[HTML]{DCF3FC} \multicolumn{3}{|l|}{\textbf{Prinsip Desain Interaksi}} \\ \hline
   DP-05 & \textit{Visibility} & Membuat pembagian lokasi antarfitur yang jelas \\ \hline
   DP-06 & \textit{Feedback} & Memberikan umpan balik yang sesuai saat pengguna melakukan aksi \\ \hline
-  DP-07 & \textit{Constraints} & Menonaktifkan tombol dari fitur yang diblokir oleh penguncian pengaturan \\ \hline
+  DP-07 & \textit{Constraints} & Menonaktifkan tombol dari fitur yang tidak dapat diinteraksi tanpa menghapusnya \\ \hline
   DP-08 & \textit{Consistency} & Konsistensi antara tampilan fitur pada halaman aplikasi dan widget \\ \hline
   DP-09 & \textit{Affordance} & Desain yang jelas untuk elemen-elemen yang dapat diinteraksi \\ \hline
 

diff --git a/src/chapters/statement.tex b/src/chapters/statement.tex
@@ -13,7 +13,7 @@ Dengan ini saya menyatakan bahwa:
 Jika terbukti melanggar hal-hal di atas, saya bersedia dikenakan sanksi sesuai dengan Peraturan Akademik dan Kemahasiswaan Institut Teknologi Bandung bagian Penegakan Norma Akademik dan Kemahasiswaan khususnya Pasal 2.1 dan Pasal 2.2.
 \vspace{15mm}
 
-Bandung, 15 April 2022 \\
+Bandung, 07 Agustus 2022 \\
 \vfill
 \underline{Gregorius Jovan Kresnadi} \\
 NIM. 13518135

diff --git a/src/chapters/chapter-4.tex b/src/chapters/chapter-4.tex
@@ -27,4 +27,6 @@ Bab Implementasi dan Pengujian Prototipe berisi tentang lanjutan dari metodologi
 % *   ||  ||  ||  ||  ||  ||  ||  ||  ||  ||  ||  ||  ||  ||  ||  ||  ||
 % * =======================================================================
 
+\newpage
+
 \input{chapters/chapter-4.4.tex}

diff --git a/src/chapters/approval-1.tex b/src/chapters/approval-1.tex
@@ -22,7 +22,8 @@
 
     \vfill
     \normalsize \normalfont
-    Bandung, 15 April 2022 \\
+    Telah disetujui dan disahkan sebagai draft Laporan Tugas Akhir \\
+    di Bandung, 07 Agustus 2022 \\
     Mengetahui,
 
     \vspace{0.5cm}
